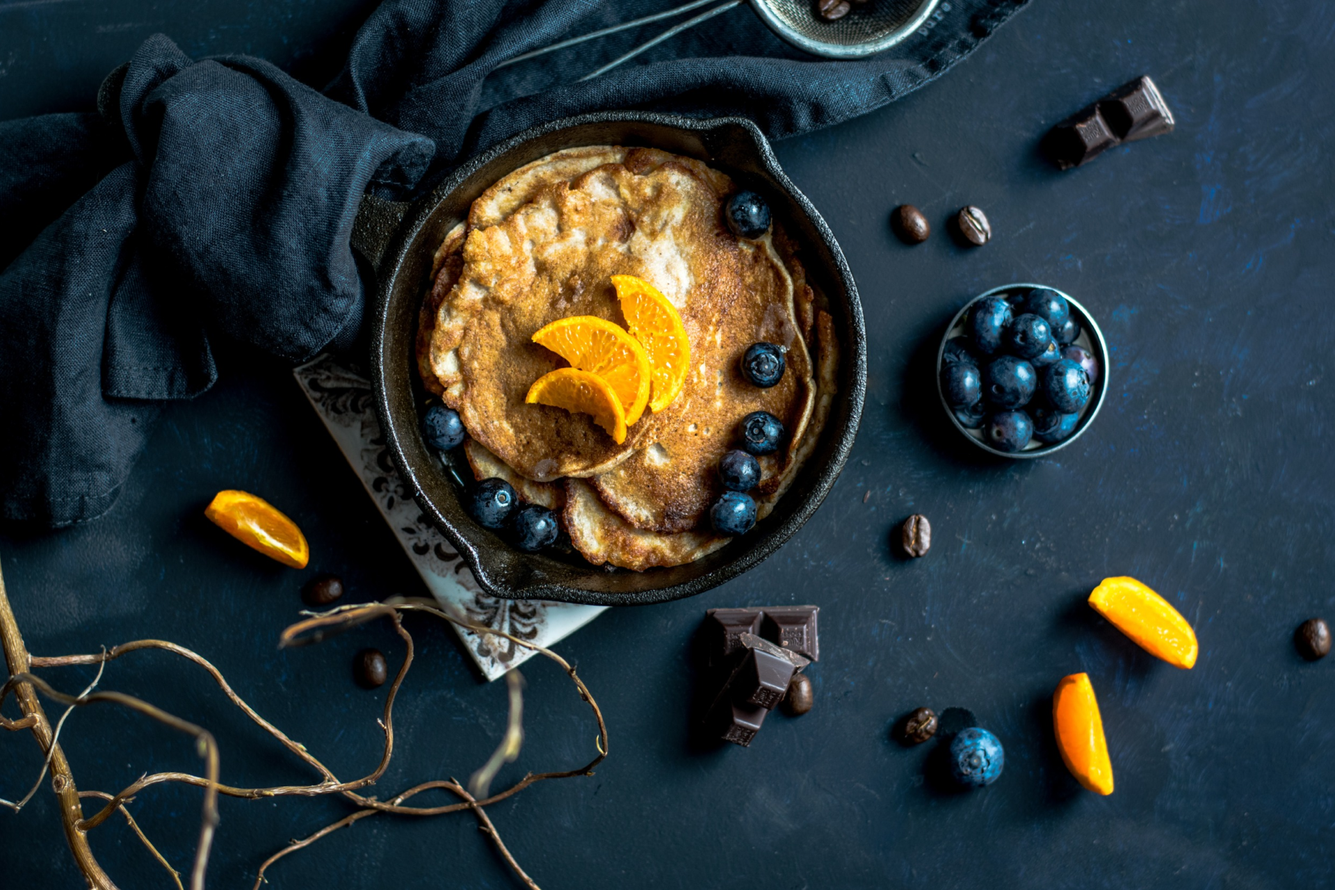
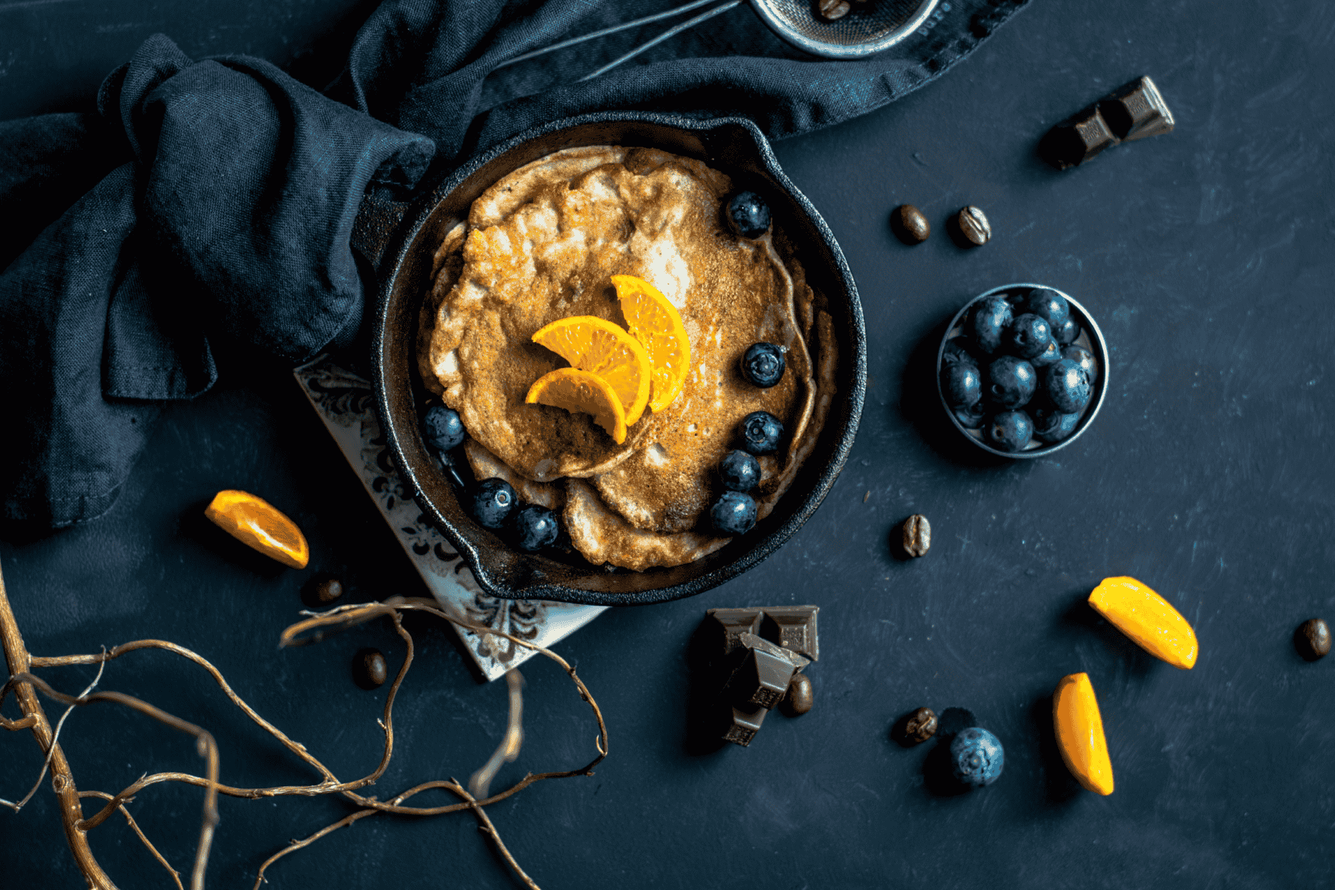
compressed bg images

diff --git a/src/components/Signup.tsx b/src/components/Signup.tsx
@@ -12,7 +12,7 @@ import Mobilebg from "../assets/images/Mobilebg.png";
 export const SignUp = () => {
   return (
     <>
-      <div className="w-full h-auto flex md:flex-row flex-col md:py-10 md:px-20 bg-[#EDEDED] relative">
+      <div className="w-full h-screen md:h-auto flex md:flex-row flex-col md:py-10 md:px-20 bg-[#EDEDED] relative">
         <img
           src={Cup}
           alt="Cup"
@@ -30,7 +30,7 @@ export const SignUp = () => {
           className="absolute bottom-0 left-1/2 transform -translate-x-1/2 w-auto h-auto"
         />
 
-        <div className="flex md:flex-row flex-col justify-between w-full relative">
+        <div className="flex md:flex-row flex-col  justify-between  relative">
           <div className="flex-1 flex-col px-2  justify-start md:gap-28 py-8 flex  items-center">
             <div className="grid w-[85px] h-[72-x] grid-cols-3 grid-rows-3 gap-4">
               <div className="w-5 h-5 bg-black rounded-full"></div>
@@ -45,7 +45,7 @@ export const SignUp = () => {
             </div>
 
             <div className="flex items-center justify-center flex-col gap-12">
-              <h1 className="md:text-6xl text-4xl  my-10 font-bold bg-gradient-to-r from-[#C91937] to-[#FDB646] text-transparent bg-clip-text  w-full text-center md:h-[122px] h-auto ">
+              <h1 className="md:text-6xl text-4xl  my-10 font-bold bg-gradient-to-r  from-[#C91937] to-[#FDB646] text-transparent bg-clip-text  w-full text-center md:h-[122px] h-auto ">
                 Sign up with your identity provider
               </h1>
 
@@ -71,7 +71,7 @@ export const SignUp = () => {
               </div>
             </div>
           </div>
-          <div className="hidden md:flex flex-col">
+          <div className="hidden md:flex  flex-col">
             <img
               src={Bg1}
               alt="b"
